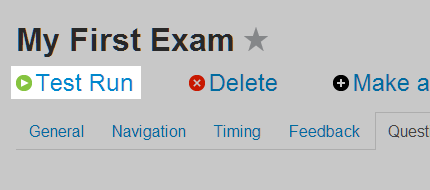
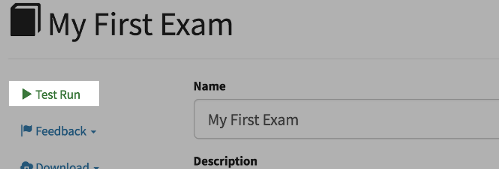
apply Chris's changes to tutorials

diff --git a/source/tutorials/write-question.rst b/source/tutorials/write-question.rst
@@ -1,19 +1,19 @@
 Writing your first question
 ===========================
 
-.. note::
-    
-    The screencasts in this tutorial use an old version of the editor interface. We're going to redo them, but for now be aware that there are some differences between what you see here and what you see in the editor.
-
 In this tutorial you will learn about the structure and features of a Numbas question by creating a simple arithmetic test, starting with basic functionality and elaborating on that as we cover the more advanced tools available.
 
 We've embedded screencasts of someone running through this tutorial at the start of each section. You might like to follow along with the video while reading the tutorial.
 
 To begin, let's make a question asking the student to add two numbers.
 
-Log in to the Numbas editor, and click on the :guilabel:`Questions` heading at the top of the page. Click on :guilabel:`Create a new question`.
+Log in to the Numbas editor, and in the :guilabel:`Create` box, click on the :guilabel:`Question` link.
 
 .. image:: screenshots/question/1.png
+
+You will be prompted to give your question a name, and to assign it to a project. As this is your first question you will probably want to use the default project, which is your own workspace.
+
+.. image:: screenshots/question/2.png
 
 The structure of a question
 ---------------------------
@@ -22,40 +22,44 @@ The structure of a question
 
     <div style="text-align: center;"><iframe src="http://player.vimeo.com/video/60822898" width="600" height="337" frameborder="0" webkitAllowFullScreen mozallowfullscreen allowFullScreen></iframe></div>
 
-You are taken to the *editing page* for your new question. At the top of the page are the question's name and links to run, delete, copy or download the question.
+You are taken to the *editing page* for your new question. It is worth spending a few moments finding your way around this page.
 
-.. image:: screenshots/question/2.png
+At the top of the page are the question's name and, above that, a link to the project which it belongs to. Below are options to run, give feedback and download the question. Below this there are options to navigate through the various steps involved in editing a question.
 
-Beneath that is the main editing interface. The editor is split into several tabs, which you can move between by clicking on the headers.
+In the admin box there are links to copy or delete the question. And in the metadata box where you can manage how your question is organised in the Numbas database.
 
 .. image:: screenshots/question/3.png
 
-Before moving any further, give the question a name so you can find it later. Type "Numbas tutorial: arithmetic" in the :guilabel:`Question Name` field.
+
+
+In the centre is the main editing interface. Before moving any further, let's change your question name from "My First Question" to something more descriptive so that you can find it later. Type "Numbas tutorial: arithmetic" in the :guilabel:`Name` field.
 
 .. image:: screenshots/question/4.png
 
-Every Numbas question consists of three sections: :ref:`Statement <statement>`, :ref:`Parts <parts>`, and :ref:`Advice <advice>`. In the Statement, the context for the question is given to the student. Parts are where the student enters their answers. A question can have one or more parts, each of which is one of several types, depending on what kind of input you want from the student. Finally, the optional Advice section can be used to give a full solution to the question, which the student can request to see if they're stuck.
+Every Numbas question consists of three sections: :ref:`Statement <statement>`, :ref:`Parts <question-parts>`, and :ref:`Advice <advice>`. In the Statement, the context for the question is given to the student. Parts are where the student enters their answers. A question can have one or more parts, each of which is one of several types, depending on what kind of input you want from the student. Finally, the optional Advice section can be used to give a full solution to the question, which the student can request to see if they're stuck. 
+
+Each of these sections of the editor can be accessed from the links in the sidebar, or you can use the buttons at the bottom of each section to guide you through in a logical order.
 
 Let's make a question with a short statement, one part asking for a number to be entered, and a little bit of advice.
 
 A very basic arithmetic question
 --------------------------------
 
-We’re going to ask the student to add together the numbers :math:`3` and :math:`5`. First, click on the :guilabel:`Statement` header, and type
+We’re going to ask the student to add together the numbers :math:`3` and :math:`5`. If you are still on the Settings page, click on the :guilabel:`Statement` button at the bottom, or on the :guilabel:`Statement` link in the sidebar. Type 
 
     What is 3+5?
 
-in the box.
+in the :guilabel:`Question statement` box.
 
 .. image:: screenshots/question/5.png
 
-Click on the :guilabel:`Test Run` button at the top of the page. Your question will open in a new browser window. There is a statement, but nowhere to enter an answer. We need to create a number entry part. Go back to the editing window and click on :guilabel:`Parts`.
+Click on the :guilabel:`Test Run` button. Your question will open in a new browser window. There is a statement, but nowhere to enter an answer. We need to create a number entry part. Go back to the editing window and click on :guilabel:`Parts` in the sidebar, or follow the navigation buttons at the bottom of the page, skipping past :guilabel:`Variables`, which we will consider later.
 
-Click on the :guilabel:`Add part` button. The default part type is :ref:`Information only <information-only>`; change it to :ref:`Number entry <number-entry>` by clicking on the drop-down box.
+Once on the Parts page, click on the :guilabel:`Add a part` button. The default part type is :ref:`Information only <information-only>`; change it to :ref:`Number entry <number-entry>` by clicking on the drop-down box.
 
 .. image:: screenshots/question/6.png
 
-Every part has a :term:`Prompt`, which you can use to ask the student for the particular answer the part assesses. We’ve already asked our question in the question’s statement, so we can leave this part’s prompt empty. Instead, click on the :guilabel:`Marking` tab, where you’ll state the correct answer for the part.
+Every part has a :term:`Prompt`, which you can use to ask the student for the particular answer the part assesses. We’ve already asked our question in the question’s statement, so we can leave this part’s prompt empty. Instead, click on the :guilabel:`Marking` link, where you’ll state the correct answer for the part.
 
 .. image:: screenshots/question/7.png
 
@@ -119,7 +123,7 @@ The most important feature of computer-based assessment is the ability to dynami
 
 Let’s change the question so that the two numbers to be added are picked at random.
 
-Click on the :guilabel:`Variables` tab. Click on the :guilabel:`Add a variable` button. Every variable needs a name and a definition. The definition is given in JME syntax.
+Click on the :guilabel:`Variables` link. Click on the :guilabel:`Add a variable` button. Every variable needs a name and a definition. The definition is given in JME syntax.
 
 .. note:: For information on what constitutes a valid variable name, see :ref:`Variable names <variable-names>`. For more on JME syntax, see :ref:`the JME reference <jme>`.
 

diff --git a/source/tutorials/create-exam.rst b/source/tutorials/create-exam.rst
@@ -10,14 +10,12 @@ Let's create an exam using questions already in the database.
 Creating an exam using existing questions
 #########################################
 
-Click on the :guilabel:`Questions` link at the top of the page to go to the question database. 
-Once there, search for a topic you're interested in.
+On your home page, click on the :guilabel:`Questions` link under :guilabel:`Browse the public database`. You can use the options on the left to filter the results, or use the search box at the top of the page to search for content that you are interested in. 
 
 .. image:: screenshots/question_search.png
 
-You'll be shown a list of questions matching your query. 
-Click on the green :guilabel:`Preview` icon to try out a question. 
-When you've found a question you like, click on the :guilabel:`basket` icon to add it to your *question basket*. 
+Once you have found a question that you are interested in, click on the :guilabel:`Preview` icon to try it out. 
+If you are happy with the question, click on the :guilabel:`basket` icon to add it to your *question basket*. 
 
 .. image:: screenshots/question_search_basket.png
 
@@ -26,28 +24,25 @@ You'll be taken to the editing page for your new exam.
 
 .. image:: screenshots/basket_dropdown.png
 
-Enter a name in the text box. 
-For now, you can ignore most of the options. 
+Enter a name in the text box. Below is a drop-down list of projects that the exam can be assigned to. By default it will be added to your personal project.
 
 .. image:: screenshots/exam_edit_name.png
 
-Click the :guilabel:`Test Run` link at the top of the page. 
+Once created, you can  try out your exam straight away. Click the :guilabel:`Test Run` link in the sidebar on the left. 
 The compiled exam will open in a new window and you can have a go at answering the questions.
 
 .. image:: screenshots/exam_edit_testrun.png
 
-The last thing to do is to give your exam a description. 
-The description should be short -- one or two lines -- and will appear underneath the exam's name in the exam listing page. 
-Click on the :guilabel:`General` tab, and enter your description in the box.
+Once you have tried out the exam, close its window and return to the exam editor. Consider adding some text to the description field.
+The description should be short -- one or two lines -- and will appear underneath the exam's name in the exam listing page.
 
 Adding more questions to your exam
 ##################################
 
-On the editing page for your exam, click the tab labelled :guilabel:`Questions` to go to the question selection area. 
-On the left is space for your selected questions, and on the right are a few tabs offering different ways of finding questions to add.
+On the editing page for your exam, click the :guilabel:`Questions` link in the sidebar to go to the question selection area. 
+On the left is space for your selected questions, and on the right are tabs offering different ways of finding questions to add.
 The :guilabel:`Recent questions` tab shows questions you have recently edited.
 The :guilabel:`Basket` tab shows questions you've added to your basket: you can browse the question editor to find questions, add them to your basket, and then go back to the exam editing page and add them in.
-Finally, the :guilabel:`Search` tab offers a small search interface, which is useful if you know the title of the question you want to add.
 
 You can click on any question's name to open it in a new window, so you can check the question does what you want and give it a test run before including it in your exam.
 
@@ -58,3 +53,5 @@ Click the plus icon on one of the question results to add it to your exam.
 You can drag and drop questions in the list on the left to reorder them.
 
 .. image:: screenshots/exam_edit_drag.png
+
+The changes that you make to the exam content are active straight away, so you can go ahead and see how your exam looks by clicking on :guilabel:`Test Run` again.

diff --git a/source/tutorials/create-an-account.rst b/source/tutorials/create-an-account.rst
@@ -3,9 +3,22 @@
 Create an account
 -----------------
 
-Click on the :guilabel:`create an account` link at the top right of the page.
+Click on the :guilabel:`create an account` button at the top right of the page.
 
 .. image:: screenshots/signup.png
 
 After filling in your details and pressing :guilabel:`Register`, you will be sent an email with a link to verify your email address. 
-When you've opened that link, you can log in: click on the :guilabel:`Log in` link at the top right of the page and enter the username and password you chose.
+When you've opened that link, you can log in: click on the :guilabel:`Log in` button at the top right of the page and enter the username and password you chose.
+
+Getting Started
+###############
+
+Once you have logged in you will be prompted to take a look at these tutorials. When you are ready to get started using the editor, click on the :guilabel:`Home` button to navigate to your home page.
+
+.. image:: screenshots/home.png
+
+On the left you will find your activity timeline. This will display notifications about activity on content that you have either created or have access to.
+
+On the right you will find buttons to create a question or exam and to browse the public database.
+
+At the bottom of the right column you will find a list of projects of which you are a member. You will already have a project of your own which will be the default home for your questions and exams.

diff --git a/source/tutorials/upload-web.rst b/source/tutorials/upload-web.rst
@@ -6,7 +6,7 @@ Numbas exams are, from the point of view of a web browser, just web pages with s
 .. note::
     These instructions will show you how to get a version of your exam which runs on the web and doesn't track scores. For instructions on obtaining and using a version which can be uploaded to a VLE such as Blackboard or Moodle, see :doc:`upload-vle`.
 
-Each question and exam has a selection of download links at the top of its edit page. Click on the :guilabel:`standalone .zip` link to download a package suitable for standalone use on the web.
+Each question and exam has a download link in the sidebar which, when clicked, offers a selecton of options. Click on the :guilabel:`standalone .zip (no SCORM)` link to download a package suitable for standalone use on the web.
 
 Extract the zip file on your computer, and then upload the resulting files to a new directory on your webspace. Most often you'll be able to do this through an FTP client - ask your server administrator.
 

diff --git a/source/tutorials/upload-vle.rst b/source/tutorials/upload-vle.rst
@@ -8,7 +8,7 @@ This page contains instructions on uploading a Numbas exam to Blackboard and Moo
 Creating a SCORM package
 ------------------------
 
-Each question and exam has a selection of download links at the top of its edit page. If you just want to make an exam available on the web and don't need to track scores, click the :guilabel:`standalone .zip` link. For a version which can be uploaded to a VLE such as Blackboard or Moodle, click the :guilabel:`SCORM package` link.
+Each question and exam has a download link in the sidebar which, when clicked, offers a selecton of options. If you just want to make an exam available on the web and don't need to track scores, click the :guilabel:`standalone .zip (no SCORM)` link. For a version which can be uploaded to a VLE such as Blackboard or Moodle, click the :guilabel:`SCORM package` link.
 
 .. image:: screenshots/scorm_download.png
 
